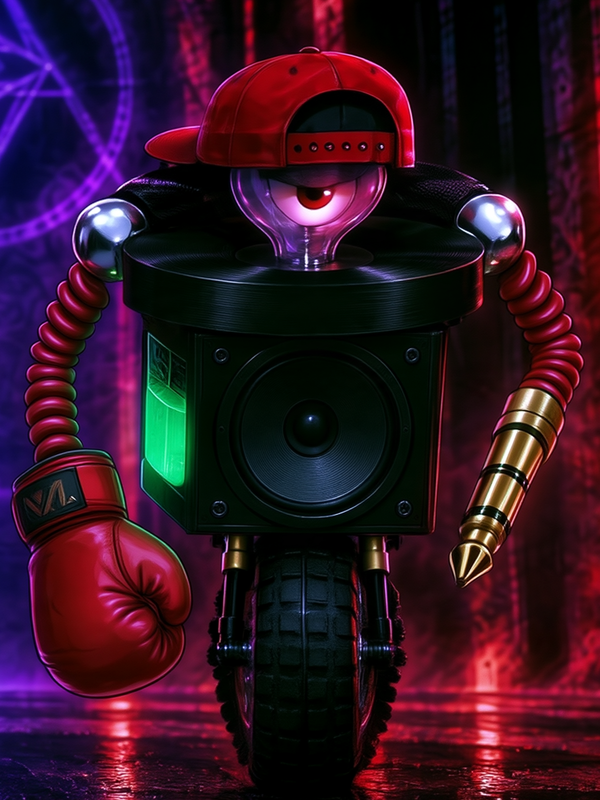
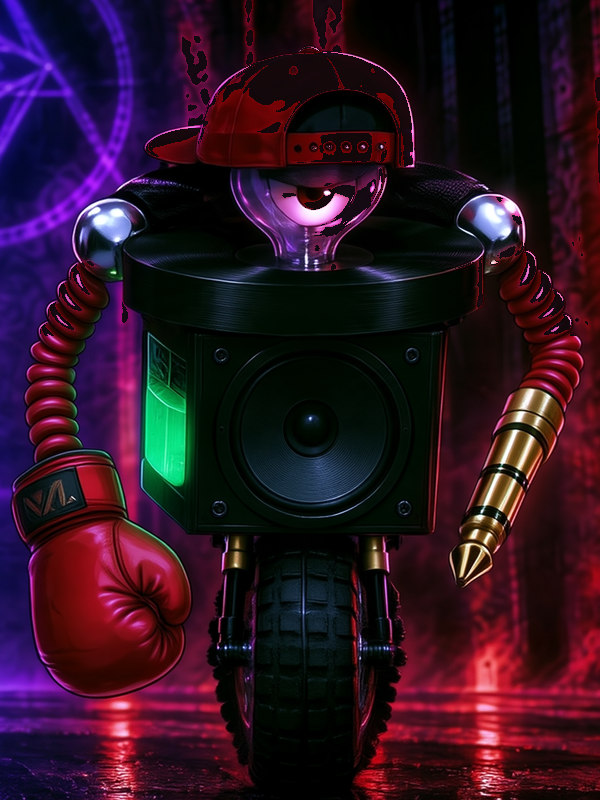
Build 433: Venture hat black (not red); harden no push/pull crumbs; object fall/stumble SFX.

diff --git a/claude/js/render.js b/claude/js/render.js
@@ -580,23 +580,24 @@ function _drawVentureCap(cx,drawY,R,hatTX,hatTY){
   const tx=Math.round((hatTX||0)*12);
   const ty=_hatBrimTY(R,hatTY);
   const hatBrimY=drawY-R+3+ty;
-  // Paulo (Oct 22, the key art): a red baseball cap worn backwards — the bill points behind him
+  // Paulo (May 2026 + Nov 27 playtest): BLACK backwards baseball cap — never red
+  // (too close to Diddy Kong). Body stays red; the hat stays black.
   const dir=window._hatDirOverride||_hatDir(), X=u=>cx+tx+dir*u, by=hatBrimY+1;
   ctx.save(); _hatXform(cx+tx,by,dir<0?-1:1);
-  ctx.fillStyle='rgba(0,0,0,0.45)'; ctx.fillRect(cx+tx-15,by+1,30,2.5);
+  ctx.fillStyle='rgba(0,0,0,0.5)'; ctx.fillRect(cx+tx-15,by+1,30,2.5);
   // the bill, behind
   ctx.fillStyle='#000'; ctx.beginPath(); ctx.moveTo(X(-10),by-3); ctx.lineTo(X(-29),by+1); ctx.lineTo(X(-28),by+3.5); ctx.lineTo(X(-9),by+1); ctx.closePath(); ctx.fill();
-  ctx.fillStyle='#b01828'; ctx.beginPath(); ctx.moveTo(X(-10),by-2.2); ctx.lineTo(X(-27.5),by+1.2); ctx.lineTo(X(-26.8),by+2.6); ctx.lineTo(X(-9.5),by+0.2); ctx.closePath(); ctx.fill();
+  ctx.fillStyle='#1a1a1e'; ctx.beginPath(); ctx.moveTo(X(-10),by-2.2); ctx.lineTo(X(-27.5),by+1.2); ctx.lineTo(X(-26.8),by+2.6); ctx.lineTo(X(-9.5),by+0.2); ctx.closePath(); ctx.fill();
   // the crown (a dome)
   ctx.fillStyle='#000'; ctx.beginPath(); ctx.moveTo(X(-16),by+1); ctx.quadraticCurveTo(X(-15),by-17,X(0),by-17); ctx.quadraticCurveTo(X(15),by-17,X(16),by+1); ctx.closePath(); ctx.fill();
-  const g=ctx.createLinearGradient(X(-12),by-15,X(12),by); g.addColorStop(0,'#ff4a52'); g.addColorStop(0.55,'#d01e2e'); g.addColorStop(1,'#7a0a16');
+  const g=ctx.createLinearGradient(X(-12),by-15,X(12),by); g.addColorStop(0,'#2a2a30'); g.addColorStop(0.55,'#121216'); g.addColorStop(1,'#050506');
   ctx.fillStyle=g; ctx.beginPath(); ctx.moveTo(X(-14.5),by); ctx.quadraticCurveTo(X(-13.5),by-15.5,X(0),by-15.5); ctx.quadraticCurveTo(X(13.5),by-15.5,X(14.5),by); ctx.closePath(); ctx.fill();
   // panel seams, the button, the strap opening at the front (the cap's back) with its snaps
-  ctx.strokeStyle='rgba(60,0,8,0.6)'; ctx.lineWidth=0.8; ctx.beginPath(); ctx.moveTo(X(0),by-15.5); ctx.quadraticCurveTo(X(-6),by-8,X(-6),by); ctx.moveTo(X(0),by-15.5); ctx.quadraticCurveTo(X(6),by-8,X(6),by); ctx.stroke();
-  ctx.fillStyle='#ff6a72'; ctx.fillRect(X(0)-1.5,by-17,3,2);
-  ctx.fillStyle='#14060a'; ctx.beginPath(); ctx.moveTo(X(5),by); ctx.quadraticCurveTo(X(9),by-7,X(13.5),by-5); ctx.lineTo(X(14),by); ctx.closePath(); ctx.fill();
-  ctx.fillStyle='#e0e0e8'; for(const u of [6.5,9,11.5]) ctx.fillRect(X(u)-0.5,by-1.2,1,1);
-  ctx.fillStyle='rgba(255,200,200,0.45)'; ctx.fillRect(X(-9),by-12,dir*6,1.2);
+  ctx.strokeStyle='rgba(0,0,0,0.7)'; ctx.lineWidth=0.8; ctx.beginPath(); ctx.moveTo(X(0),by-15.5); ctx.quadraticCurveTo(X(-6),by-8,X(-6),by); ctx.moveTo(X(0),by-15.5); ctx.quadraticCurveTo(X(6),by-8,X(6),by); ctx.stroke();
+  ctx.fillStyle='#3a3a42'; ctx.fillRect(X(0)-1.5,by-17,3,2);
+  ctx.fillStyle='#0a0a0c'; ctx.beginPath(); ctx.moveTo(X(5),by); ctx.quadraticCurveTo(X(9),by-7,X(13.5),by-5); ctx.lineTo(X(14),by); ctx.closePath(); ctx.fill();
+  ctx.fillStyle='#c8c8d0'; for(const u of [6.5,9,11.5]) ctx.fillRect(X(u)-0.5,by-1.2,1,1);
+  ctx.fillStyle='rgba(255,255,255,0.18)'; ctx.fillRect(X(-9),by-12,dir*6,1.2);
   ctx.restore();
 }
 
@@ -1184,7 +1185,7 @@ function drawGloveArm(sxp,syp,facing,shWX,shWY,hidden){
           if(_cx>bw.x-6&&_cx<bw.x+bw.w+6&&_feet>=bw.y-12&&_feet<=bw.y+16){ _stood=bw; break; }
         }
         if(_stood){
-          p._hitDone=true;_hit=true;_hitKind='block';
+          p._hitDone=true;_hit=true;_hitKind=(_stood.only==='push'||_stood.only==='pull')?'keyblock':'block';
           if(_stood.only==='laser'&&typeof _shockFromBlock==='function'){
             _hitKind='zap'; _shockFromBlock(_stood,_charged?'punchLoaded':'punch',Math.PI/2);
             p._pRecoil=12;
@@ -1247,6 +1248,8 @@ function drawGloveArm(sxp,syp,facing,shWX,shWY,hidden){
             _hitKind='zap'; _shockFromBlock(bw,_charged?'punchLoaded':'punch',punchAngle);
             p._pRecoil=12; break;
           }
+          // push/pull: solid clang only — never the smash/dust path that reads as crumbs
+          if(bw.only==='push'||bw.only==='pull') _hitKind='keyblock';
           // Paulo: a loaded punch smashes the whole omni block and cracks the ones around it
           if(_charged&&typeof _isRedBwall==='function'&&_isRedBwall(bw)&&!bw.only){
             const cx0=bw.x+bw.w/2, cy0=bw.y+bw.h/2;

diff --git a/claude/js/beta_level.js b/claude/js/beta_level.js
@@ -1102,13 +1102,21 @@
         else bw.x=nx;
         const ny=bw.y+bw.vy/steps;
         if(boxHits(bw.x,ny)){
-          if(bw.vy>0) ground=true;
+          if(bw.vy>0){
+            ground=true;
+            const hitV=bw.vy, m=weightOf('cube',bw);
+            if(hitV>2.2&&!(bw._landSfxF>0)){
+              bw._landSfxF=10;
+              try{ sfxAt(bw,'object_land',Math.min(1,hitV/(6+m*0.35)*Math.sqrt(m/3))); }catch(e){}
+            }
+          }
           if(!(bw.vy>0&&flyHitResting(bw,bw.x,ny,'y'))){
             bw.vy=(bw.vy>3)?-bw.vy*0.25:0; if(!(bw._tossT>0)) bw.vx*=0.78;
           }
         }else bw.y=ny;
       }
       separateFlyingCubes();
+      if(bw._landSfxF>0) bw._landSfxF--;
       bw.rot=(bw.rot||0)+(bw.spin||0); bw.spin=(bw.spin||0)*(ground?0.45:0.98);
       if(ground&&!bw._magStuck){
         const step=Math.PI/2;
@@ -1118,9 +1126,16 @@
         w+=-Math.sin(d*(Math.PI/step))*0.006;
         if(Math.abs(bw.vx||0)>0.35) w+=Math.sign(bw.vx)*0.01;
         w*=0.86;
-        if(prev*d<0&&Math.abs(prev)>step*0.3&&Math.abs(d)>step*0.3) bw.x+=Math.sign(prev)*T*0.35;
+        if(prev*d<0&&Math.abs(prev)>step*0.3&&Math.abs(d)>step*0.3){
+          bw.x+=Math.sign(prev)*T*0.35;
+          if(!(bw._stumbleF>0)){
+            bw._stumbleF=14;
+            try{ sfxAt(bw,'object_stumble',Math.min(1,0.35+Math.abs(bw.vx||0)*0.12)); }catch(e){}
+          }
+        }
         bw.rot+=w; bw._faceW=w; bw._d=d;
       }
+      if(bw._stumbleF>0) bw._stumbleF--;
       // a thrown cube hits by its momentum (weight × speed)
       const sp=Math.hypot(bw.vx,bw.vy), mom=sp*weightOf('cube',bw);
       if(sp>4) for(const e of ENEMS){
@@ -1204,7 +1219,12 @@
       if(knowlOutlineSolid(k.x,ny,k)&&ny>=k.y){
         const _hitV=k.vy;   // capture before it is reversed (dump line 87: glass sound when seeds hit the floor)
         if(k.kind==='seed'&&_hitV>2&&!(k._glassF>0)){ k._glassF=8; try{ window.MV_KNOWL_GLASS&&window.MV_KNOWL_GLASS(); }catch(e){} }
+        else if(k.kind!=='seed'&&_hitV>2.2&&!(k._landSfxF>0)){
+          k._landSfxF=10;
+          try{ sfxAt(k,'object_land',Math.min(1,_hitV/(7+m)*Math.sqrt(m/0.8))); }catch(e){}
+        }
         if(k._glassF>0) k._glassF--;
+        if(k._landSfxF>0) k._landSfxF--;
         k.vy=k.vy>2?-k.vy*0.35:0; k.vx*=0.8; if(Math.abs(k.vx)<0.2&&Math.abs(k.vy)<0.3) k._rest=(k._rest||0)+1;
       }
       else if(knowlOutlineSolid(k.x,ny,k)&&ny<k.y){ k.vy=Math.abs(k.vy)*0.3; }

diff --git a/claude/js/sfx_posh.js b/claude/js/sfx_posh.js
@@ -294,6 +294,25 @@
     grap_attach(a){ R.hook_latch(a); },
     swap(a){ tone(a,{f:N(76),d:0.08,v:0.06,type:'triangle'}); tone(a,{f:N(83),dt:0.06,d:0.12,v:0.06,type:'triangle',rev:0.3}); },
     tumble(a){ tone(a,{f:150,f1:70,d:0.16,v:0.14}); hiss(a,{type:'lowpass',f:700,d:0.1,v:0.08}); },
+    // T617 (Paulo, Nov 27): objects falling / landing — dense thud scaled by impact (0..~1.3).
+    // Distinct from omniblock_chip (hit/crunch) and shatter (destroy).
+    object_land(a,p){
+      const k=Math.max(0.15,Math.min(1.35,typeof p==='number'?p:0.55));
+      tone(a,{f:68+k*22,f1:26,d:0.11+k*0.16,v:0.15+k*0.24,at:0.002});                 // body thud
+      tone(a,{f:150+k*50,f1:50,d:0.06+k*0.07,v:0.07+k*0.1,type:'triangle',lp:900});    // mid knock
+      hiss(a,{type:'lowpass',f:980-k*220,f1:110,d:0.07+k*0.1,v:0.07+k*0.14,at:0.001}); // grit settle
+      if(k>0.5) tone(a,{f:36,f1:20,d:0.16+k*0.12,v:0.09+k*0.1});                        // heavy sub
+      if(k>0.32) hiss(a,{f:rnd(420,880),q:1.4,dt:0.015,d:0.035,v:0.035+k*0.05});
+    },
+    // Objects tumbling / tipping / scraping while they stumble around.
+    object_stumble(a,p){
+      const k=Math.max(0.15,Math.min(1.2,typeof p==='number'?p:0.5));
+      tone(a,{f:rnd(105,145),f1:55,d:0.07+k*0.07,v:0.1+k*0.12,at:0.002});
+      tone(a,{f:rnd(210,310),d:0.045,v:0.045+k*0.05,type:'triangle',dt:0.018,hp:180});
+      hiss(a,{type:'lowpass',f:1500,f1:280,d:0.09+k*0.07,v:0.06+k*0.09,rate:0.55});
+      if(k>0.38) tone(a,{f:rnd(75,115),d:0.055,v:0.07+k*0.05,dt:0.045});               // second bump
+      if(k>0.55) hiss(a,{f:rnd(600,1200),q:2,dt:0.06,d:0.03,v:0.04});
+    },
     rope_throw(a){ hiss(a,{f:700,f1:2600,q:1.6,d:0.2,v:0.08}); },
     menu(a){ tone(a,{f:N(81),d:0.06,v:0.05,type:'triangle'}); },
     sfx_menu(a){ tone(a,{f:N(84),d:0.07,v:0.055,type:'triangle'}); bell(a,{f:N(91),ratio:2,index:1,d:0.16,v:0.035,rev:0.25}); },

diff --git a/claude/js/weapons.js b/claude/js/weapons.js
@@ -253,6 +253,8 @@ function _bwallMovedFromHome(bw){ if(bw.homeX==null||bw.homeY==null) return fals
 const _OMNI_SHARD_COLS=['#1a0428','#2a0840','#3d0a5c','#4a148c','#6a1b9a','#7b1fa2','#4a0e6a'];
 const _LASER_SHARD_COLS=['#7a5a08','#d8a820','#ffe27a','#b08010','#2a1e02','#ffd040','#d8a820'];
 function spawnDebris(bw,count){
+  // T611/P0 (Paulo 2026-11-27): push/pull are not destroyable — never spawn omni crumbs on them
+  if(!bw||bw.only==='push'||bw.only==='pull') return;
   if(!bw.debris) bw.debris=[];
   for(let i=0;i<count;i++){
     // chunky crumbs: they fly, bounce, roll, pile up and fade (Paulo: a cooler, more physical break)
@@ -492,6 +494,7 @@ function _startBoxTumble(box, dir){
   box._tumbleY0=box.y;
   box._tumbleFrom=_snapBoxFace(box.rot);
   box.og=false;
+  try{ if(typeof sfxAt==='function') sfxAt(box,'object_stumble',0.5); }catch(e){}
 }
 
 function _stepBoxTumble(box){
@@ -509,6 +512,7 @@ function _stepBoxTumble(box){
     box.spin=0;
     box.vx=(box.vx||0)*0.84;
     box.y=box._tumbleY0||box.y;
+    try{ if(typeof sfxAt==='function') sfxAt(box,'object_land',0.4); }catch(e){}
   }
 }
 
@@ -1584,7 +1588,8 @@ function updateCoopPlayer2(){
       if(bw.hp<=0)continue;
       if(_boxHitsRect(bw,{x:fistCX-fistR,y:fistCY-fistR,w:fistR*2,h:fistR*2})){
         _damageBwall(bw,'punch',{shakeX:(p2.fc?1:-1)*4,shakeY:-2,vx:bw.movable?(p2.fc?6:-6):0,vy:bw.movable?-2:0});
-        spawnDebris(bw,8); hitAny=true;
+        if(bw.only!=='push'&&bw.only!=='pull') spawnDebris(bw,8);
+        hitAny=true;
       }
     }
     // Nov 18 (Paulo): mirror of P1's horseplay — a punch that connects with your

diff --git a/claude/js/beta_pushblock.js b/claude/js/beta_pushblock.js
@@ -123,7 +123,13 @@
       } else bw.x=nx;
       const ny=bw.y+bw.vy/steps;
       if(hitsAt(bw.x,ny)){
-        if(bw.vy>0){ ground=true; if(bw.vy>4){ S(bw,'omniblock_chip'); bw._sq=0.18; bw._sqV=0; bw._sqAx='y'; } }
+        if(bw.vy>0){
+          ground=true;
+          if(bw.vy>3.2){
+            const k=Math.min(1,bw.vy/10);
+            S(bw,'object_land',k); bw._sq=0.18; bw._sqV=0; bw._sqAx='y';
+          }
+        }
         bw.vy=bw.vy>4?-bw.vy*0.2:0;
       } else bw.y=ny;
     }
@@ -134,12 +140,14 @@
       if(!blocked(fc,fr)){
         const dir=blocked(Math.floor((bw.x+2)/T),fr)?1:-1;
         bw.vx+=dir*0.45; bw.spin=(bw.spin||0)+dir*0.05; ground=false;
+        if(!(bw._stumbleF>0)){ bw._stumbleF=16; S(bw,'object_stumble',0.45); }
       } else {
         const q=Math.PI/2, tgt=Math.round((bw.rot||0)/q)*q;
         bw.rot=(bw.rot||0)+(tgt-(bw.rot||0))*0.35; bw.spin=(bw.spin||0)*0.4;
         if(Math.abs(bw.vx)>1&&bw._pbT%3===0) PFXS.push({x:bw.x+T/2-Math.sign(bw.vx)*T/2,y:bw.y+T-2,vx:-Math.sign(bw.vx)*Math.random(),vy:-Math.random()*0.8,life:12,maxLife:12,r:1.5+Math.random()*1.5,col:'#b8a080'});
       }
     }
+    if(bw._stumbleF>0) bw._stumbleF--;
     if(!ground){ bw.rot=(bw.rot||0)+(bw.spin||0); bw.spin=(bw.spin||0)*0.985; }
     // MIND stops a block sliding into him and takes a share of the shove
     if(typeof gridPlayerBody==='function'&&Math.abs(bw.vx)>0.3){

diff --git a/claude/js/audio.js b/claude/js/audio.js
@@ -827,6 +827,14 @@ function sfx(t){
       nz(.03,.08,false,0.28);
       o(100,42,.14,.2,0,'sine');o(230,90,.06,.1,0,'triangle');o(880,420,.08,.05,0.02,'triangle');
       break;
+    case'object_land':{
+      const k=typeof arguments[1]==='number'?Math.max(0.15,Math.min(1,arguments[1])):0.45;
+      nz(.04+k*.06,.12,false,0.4+k*0.3);
+      o(110-k*40,40,.1+k*.1,.16+k*.1,0,'sine'); o(200-k*50,70,.06,.08,0,'triangle');
+      break;}
+    case'object_stumble':
+      nz(.03,.08,false,0.25); o(150,80,.06,.1,0,'triangle'); o(80,40,.05,.08,0.03,'sine');
+      break;
     case'omniblock_shatter':
       nz(.18,.28,false,0.38);nz(.12,.18,true,0.22,0.04);
       o(420,90,.14,.16,0,'square');o(180,48,.16,.14,0.03,'triangle');

diff --git a/claude/js/ui_select.js b/claude/js/ui_select.js
@@ -15,7 +15,7 @@
 (function(){
   'use strict';
   const IMG={}, FEATHER={};
-  for(const k of ['mind','venture']){ const im=new Image(); im.src='assets/ui/hero-'+k+'.png?v=253'; IMG[k]=im; }
+  for(const k of ['mind','venture']){ const im=new Image(); im.src='assets/ui/hero-'+k+'.png?v=433'; IMG[k]=im; }
   const HERO={
     mind:{name:'MIND', col:'#8B5FCF', deep:'#3a1466', glow:'91,42,140', role:'THE BIG BROTHER', tag:'STEADY HANDS  ·  BIG IDEAS'},
     venture:{name:'VENTURE', col:'#D9472B', deep:'#5a1010', glow:'217,71,43', role:'THE LITTLE BROTHER', tag:'NO BRAKES  ·  ALL NERVE'},

diff --git a/claude/js/mask-parts.js b/claude/js/mask-parts.js
@@ -14,7 +14,7 @@
     ['glow','Purple aura & punch trail','assets/previews/heroes-crop.png',''],
   ];
   P['char:venture']=[
-    ['cap','The red cap','assets/ui/hero-venture.png','0% 0%'],
+    ['cap','The black backwards cap','assets/ui/hero-venture.png','0% 0%'],
     ['eye','The single lens eye','assets/ui/hero-venture.png','22% 10%'],
     ['torso','Speaker-box body','assets/ui/hero-venture.png','40% 45%'],
     ['arm-left','Red coil arm','assets/ui/hero-venture.png','8% 55%'],

diff --git a/claude/js/beta_impact.js b/claude/js/beta_impact.js
@@ -82,6 +82,7 @@
     B.shake=Math.max(B.shake||0,charged?6:2.5);
     S(charged?'punch_hit_heavy':'punch_hit');
     if(kind==='wall') S('punch_wall');
+    // smashable omni/blocks get grit dust; push/pull keyblocks stay clean (Paulo P0: no crumbs)
     if(kind==='wall'||kind==='block') dust(x,y,charged?6:3,2,'190,175,160');
   };
   // every swing: a whoosh (main.js plays 'punch' / the loaded swing) — and a smear while the arm is out

diff --git a/claude/js/beta_crates.js b/claude/js/beta_crates.js
@@ -106,7 +106,7 @@
     if(it.vy>0&&solid(it.x,ny+10)){
       let y=ny; for(let k=0;k<24&&solid(it.x,y+10);k++) y-=1;
       it.y=y;
-      if(it.vy>2.5){ it.vy*=-CR.BOUNCE; S('item_clink'); it.vr*=0.6; }
+      if(it.vy>2.5){ const hitV=it.vy; it.vy*=-CR.BOUNCE; S('object_land',Math.min(1,hitV/8)); it.vr*=0.6; }
       else{ it.vy=0; it.og=true; }
       it.vx*=CR.FRIC; it.vr=it.vx*0.06;
       if(Math.abs(it.vx)<0.05) it.vx=0;

diff --git a/index.html b/index.html
@@ -25,7 +25,7 @@
 <meta http-equiv="Expires" content="0">
 <title>Mind &amp; Venture</title>
 <script src="js/mv_palette.js?v=413"></script>
-<script>window.MV_BUILD='432';
+<script>window.MV_BUILD='433';
 /* T425 + T602: Unfiltered boot; Ink and Vinyl / Gore locked until secret code or +/-33. */
 try{ if(!/[?&](console|selftest|ci)=/.test(location.search)) localStorage.setItem('mv2.console','off'); }catch(e){}</script>
 <script>

diff --git a/sw.js b/sw.js
@@ -2,7 +2,7 @@
    HTML and JS always come from the network. When this file changes, open
    tabs reload onto the new build. The page registers this against its own
    URL, not the <base> tag (that used to request /claude/sw.js, which 404s). */
-const BUILD = '432';
+const BUILD = '433';
 
 self.addEventListener('install', (e) => { self.skipWaiting(); });
 
